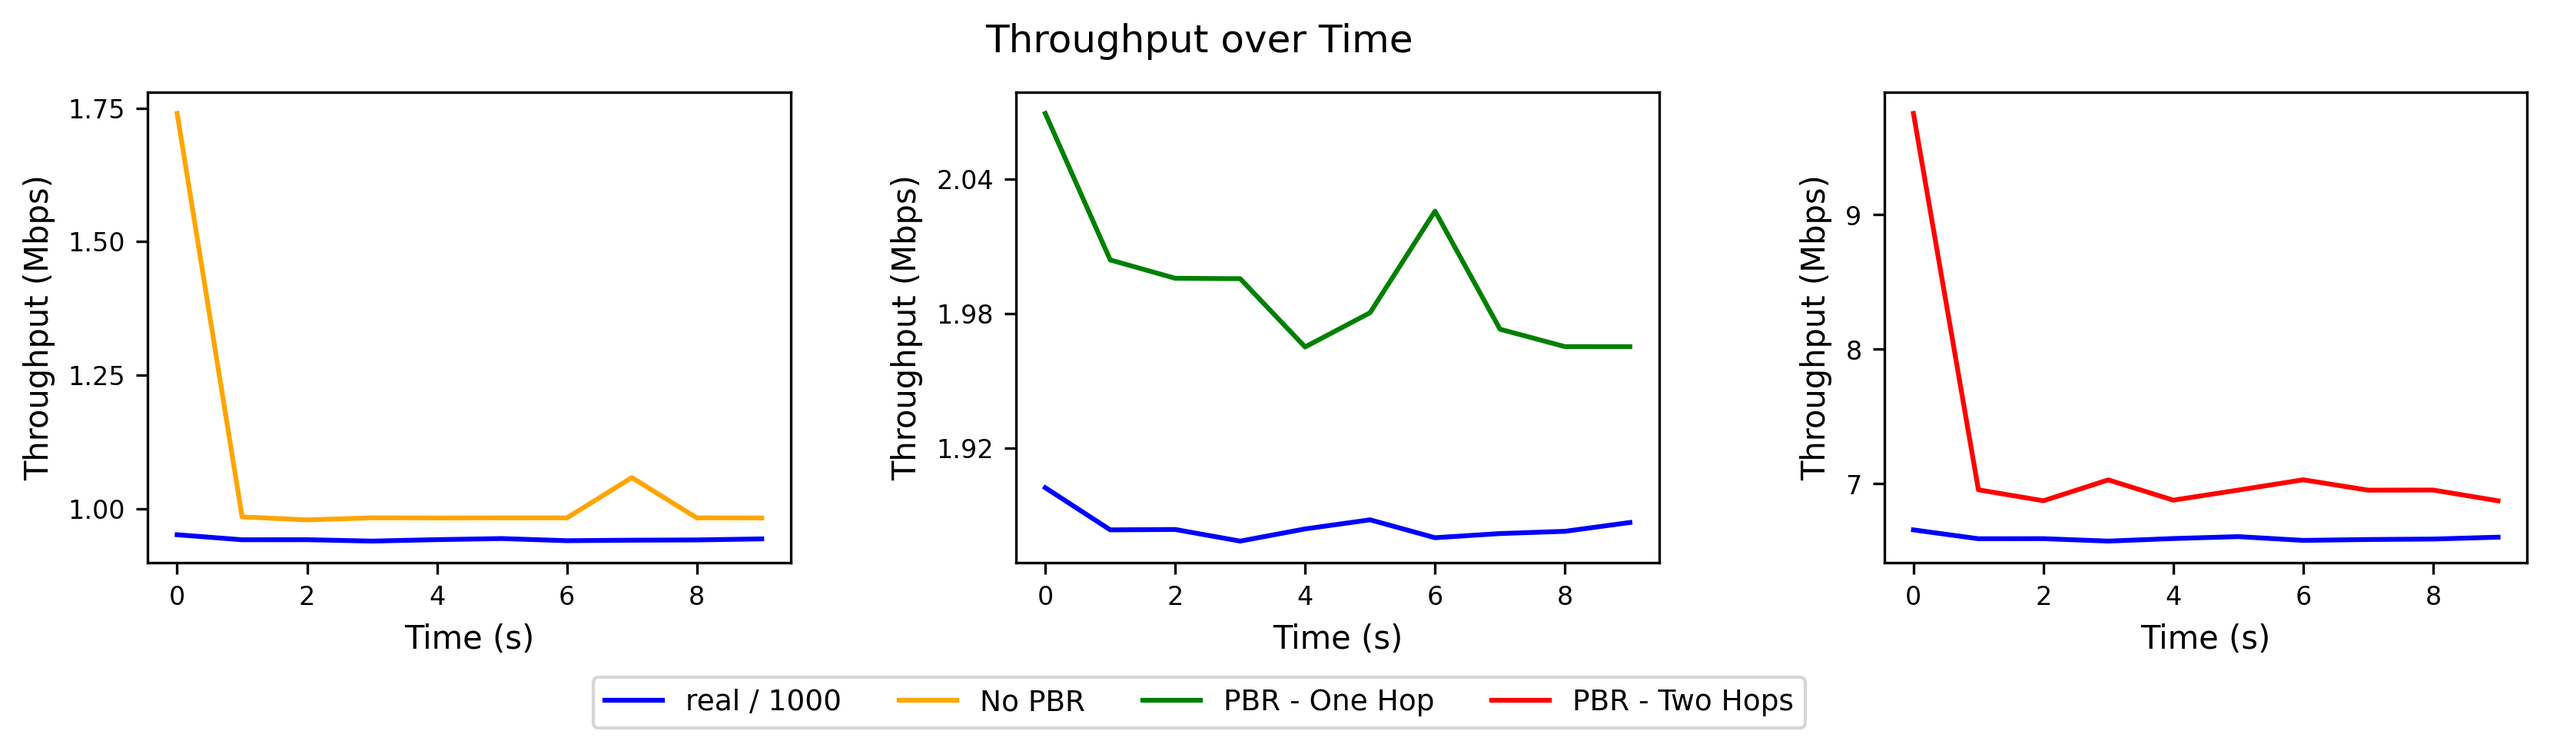
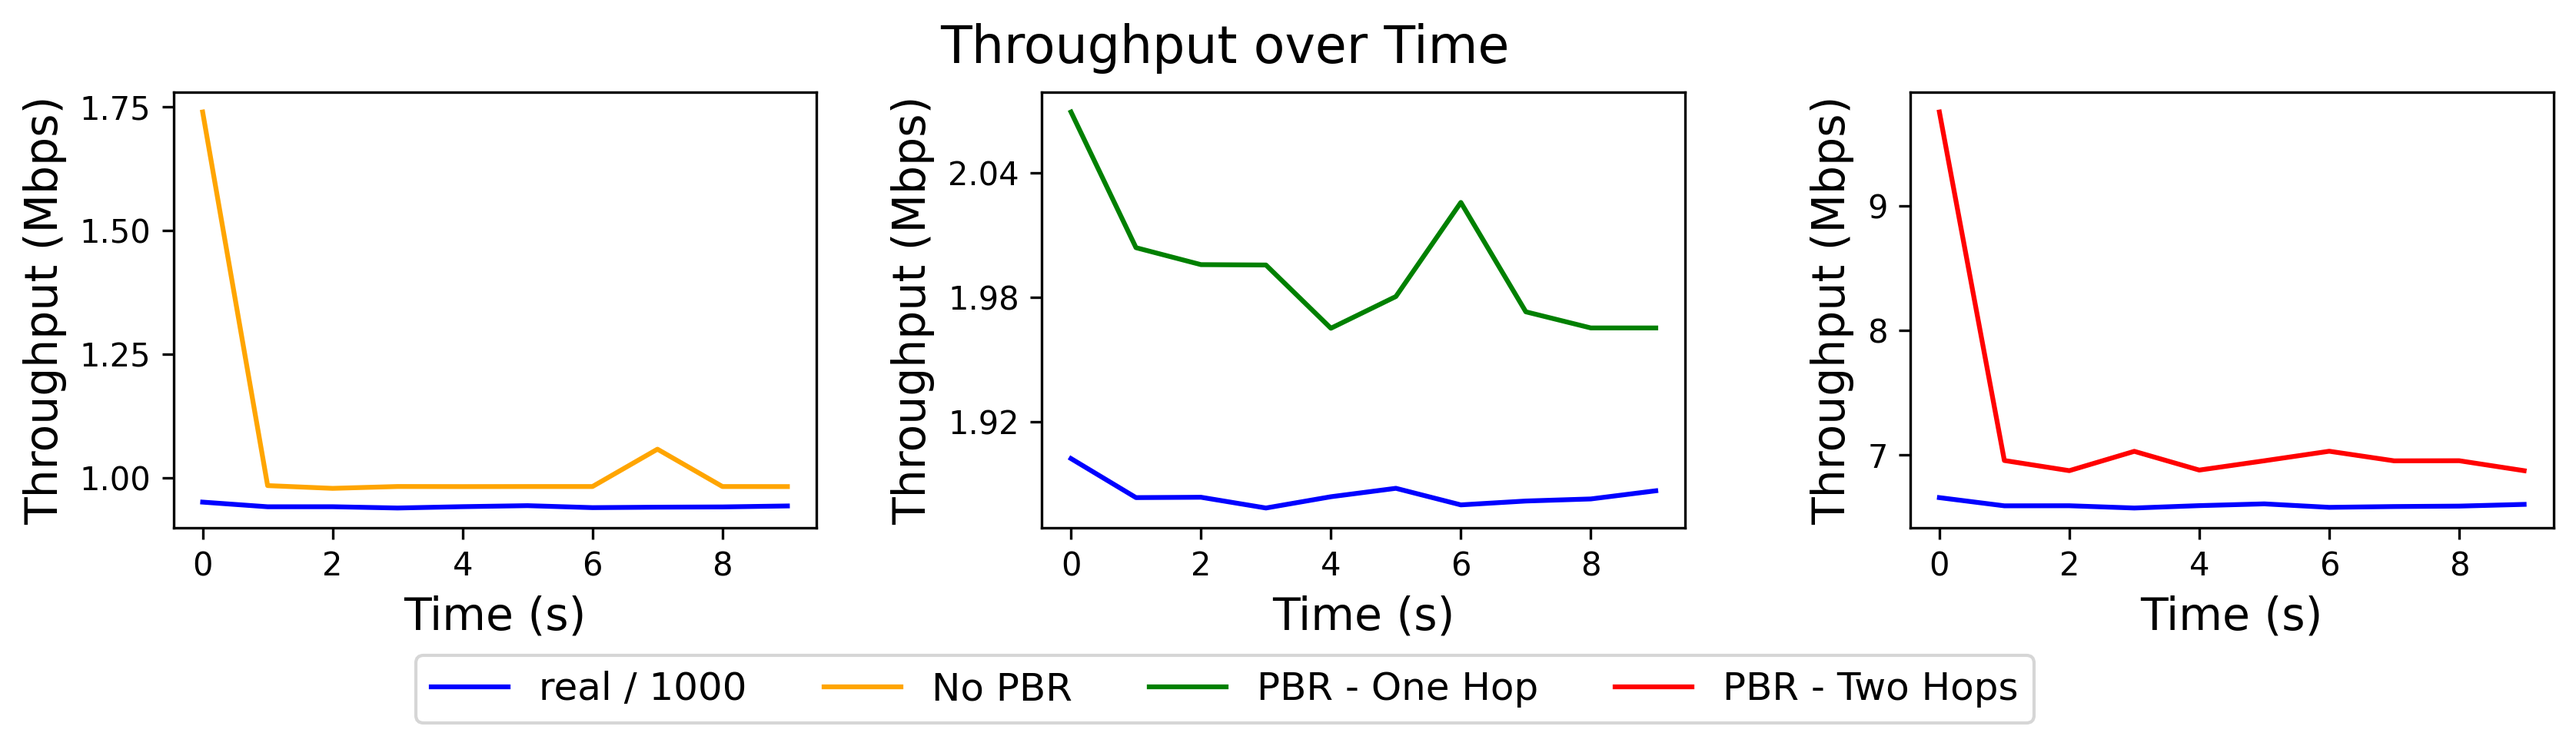
increase font size for better readability

diff --git a/plot2.py b/plot2.py
@@ -52,10 +52,10 @@ time_axis = np.arange(max_len) * interval_len
 fig, axes = plt.subplots(1, 3, figsize=(12, 3))  # try (12,3) for ~40% shorter
 
 # common font sizes (smaller because figure is shorter)
-label_fontsize = 10
-tick_fontsize = 8
-title_fontsize = 12
-legend_fontsize = 9
+label_fontsize = 14
+tick_fontsize = 10 
+title_fontsize = 16
+legend_fontsize = 12
 
 # Left subplot
 l1, = axes[0].plot(time_axis, real_mean / 1000, label="real / 1000", color="blue")
@@ -97,10 +97,11 @@ fig.legend(
     frameon=True
 )
 
+fig.align_ylabels(axes)
 # smaller top title, placed to avoid overlapping with axes in the reduced height
 fig.suptitle("Throughput over Time", fontsize=title_fontsize)
 # adjust spacing: bring subplots up a bit and leave space for the legend
-plt.subplots_adjust(left=0.12, right=0.98, top=0.88, bottom=0.20, wspace=0.35)
+plt.subplots_adjust(left=0.12, right=0.98, top=0.88, bottom=0.25, wspace=0.35)
 
 fig.savefig("throughput_overlay_shorter.png", dpi=300, bbox_inches='tight')
 fig.savefig("throughput_overlay_shorter.pdf", bbox_inches='tight')
